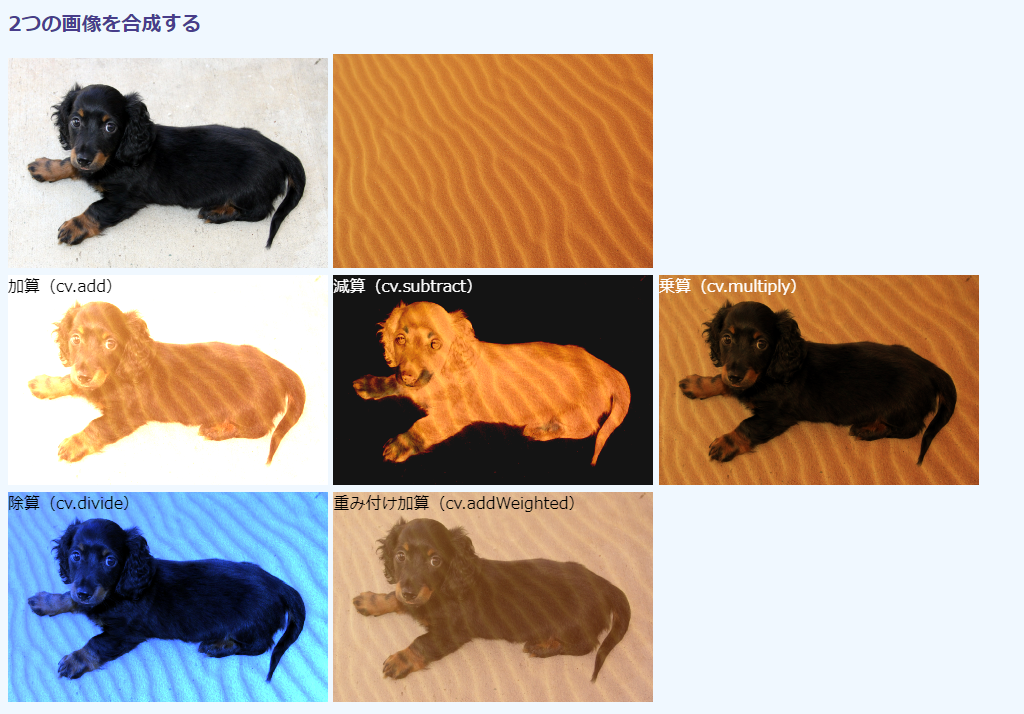
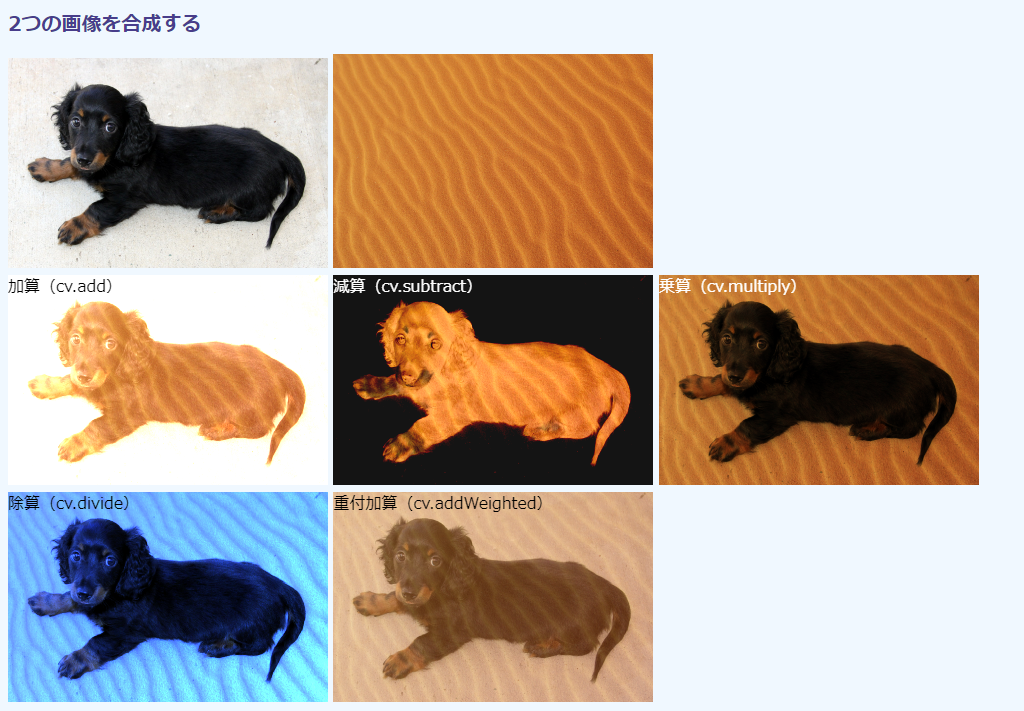
6.8 checked

diff --git a/Codes/img-compose.html b/Codes/img-compose.html
@@ -53,7 +53,7 @@
 
     cv.addWeighted(img1, 0.5, img2, 0.5, 0, result);
     cv.imshow('canvasTagWei', result);
-    new Overlay('divTagWei',  '重み付け加算（cv.addWeighted）', 0, 0, 16, 'black');
+    new Overlay('divTagWei',  '重付加算（cv.addWeighted）', 0, 0, 16, 'black');
 
     [img1, img2, result].forEach(m => m.delete());
   }

diff --git a/06-img.md b/06-img.md
@@ -2367,11 +2367,15 @@ cv.rectangle(                               // 戻り値なし
 
 #### 目的
 
-2枚の画像を加減乗除で合成します。四則演算によって画像がどう変化するかを確認するのが目的です。
+2枚の画像を加減乗除で合成します。四則演算によって画像がどう変化するかを確かめるのが目的です。
 
-技術的には、`cv.Mat`に収容された(x, y)座標とチャネル位置が対応する値どうしの演算です。加算なら、画像1のピクセル $P_1(r_1, g_1, b_1, a_1)$ と画像2のピクセル $P_2(r_2, g_2, b_2, a_2)$ を足せば、 $P'(r_1 + r_2, g_1 + g_2, , b_1 + b_2, a_1 +a_2)$ になります。加算あるいは乗算をすると、値は基本的に大きくなり、画面が明るくなります。結果がビット深度が表現できる最大値を超えたときは、最大値に飽和されます（`cv.CV_8U`なら255）。反対に、減算や除算では値は小さく、暗くなります。減算では、表現可能な最小値より小さくなったら、最小値に飽和されます（`cv.CV_8U`では0）。
+技術的には、`cv.Mat`に収容された(x, y)座標とチャネル位置が対応する値どうしの演算です。画像 $P_1$ と画像 $P_2$ の加算な次の式の通りで。
 
-`cv.Mat`に対する加減乗除の関数はそれぞれ`cv.add()`、`cv.subtract()`、`cv.multiply()`、`cv.divide()`です。
+$$P_1(r_1, g_1, b_1, a_1) + P_2(r_2, g_2, b_2, a_2) = P'(r_1 + r_2, g_1 + g_2, , b_1 + b_2, a_1 +a_2)$$
+
+加算あるいは乗算をすると、値は基本的に大きくなり、画面が明るくなります。結果がビット深度が表現できる最大値を超えたときは、最大値に飽和されます（`cv.CV_8U`なら255）。反対に、減算や除算では値は小さく、暗くなります。減算では、表現可能な最小値より小さくなったら、最小値に飽和されます（`cv.CV_8U`では0）。
+
+`cv.Mat`に対する加減乗除の関数はそれぞれ`cv.add()`、`cv.subtract()`、`cv.multiply()`、`cv.divide()`です。加減算には係数を加えた重み付け加算の`cv.addWeighted()`もあります。
 
 実行例を次の画面に示します。
 
@@ -2381,7 +2385,7 @@ cv.rectangle(                               // 戻り値なし
 
 2段目以降が合成結果です。画像左上に、用いた演算とその関数を示してあります（[2.4節](./02-ui.md#24-日本語文字を画像に重畳する "INTERNAL")の`Overlay`クラス使用）。
 
-加算は、2枚の画像を透明なシートに印画し、重ねたうえですかして見たような絵を生成します。透明シートと異なるのは、もともと明るいところ同士を重ねると値が飽和し、白く飛んでしまうところです。ここでは、もともと明るい左の背景がほとんどで飽和します。その代わり、ダックスフンド部分はもとが黒いので、そのテクスチャが風紋に置き換わります。このサンプルのように背景と前景がはっきりした画像なら、これにプレーンな一色の画像を加えることで、着色することができます。
+加算は、2枚の画像を透明なシートに印画し、重ねたうえですかして見たような絵を生成します。透明シートと異なるのは、もともと明るいところ同士を重ねると値が飽和し、白く飛んでしまうところです。ここでは、もともと明るい左の背景が飽和しています。その代わり、ダックスフンド部分はもとが黒いので、そのテクスチャが明るいほうの風紋に置き換わります。このサンプルのように背景と前景がはっきりした画像なら、これにプレーンな一色の画像を加えることで、着色することができます。
 
 引くという操作は画像を負にして加えるということなので、引く側がネガ状になります。この例では右の風紋から左のダックスフンドを引いているので、ダックスフンドがネガになります。背景がまっくろなのは、ダックスフンドの明るい背景が負になり、0に飽和しているからです。一方のテクスチャが他方に映るのは、加算と同じです。なお、この用例ではやや輝度を調整しています。
 
@@ -2389,7 +2393,7 @@ cv.rectangle(                               // 戻り値なし
 
 除算も効果としては乗算と同じようなものです。ただ、低いほうの値に集中しがちなので、一定の数を掛けるのが一般的です。ここでは100倍しています。ダックスフンド（背景白）を風紋（背景赤茶）で割っているので、白い背景から赤い成分がごそっと減ります。そのため、結果では背景が青っぽくなります。
 
-重み付け加算は加算に係数をかけることのできる計算です。つまり、 $P' = \alpha P_1 + \beta P_2$ です。輝度を極端に上げたり下げたりしないよう、係数の和は1に保つのが一般的です（ $\alpha + \beta = 1$ ）。
+重み付け加算は加算に係数をかけることのできる計算です。つまり、 $P' = \alpha P_1 + \beta P_2$ です。輝度を極端に上げたり下げたりしないよう、係数の和は1に保つのが一般的です（ $\alpha + \beta = 1$ ）。ここでは、どちらも0.5を取っています（つまり両者の平均を取っている）。
 
 #### コード
 
@@ -2452,7 +2456,7 @@ cv.rectangle(                               // 戻り値なし
  53
  54      cv.addWeighted(img1, 0.5, img2, 0.5, 0, result);
  55      cv.imshow('canvasTagWei', result);
- 56      new Overlay('divTagWei',  '重み付け加算（cv.addWeighted）', 0, 0, 16, 'black');
+ 56      new Overlay('divTagWei',  '重付加算（cv.addWeighted）', 0, 0, 16, 'black');
  57
  58      [img1, img2, result].forEach(m => m.delete());
  59    }
@@ -2466,7 +2470,7 @@ cv.rectangle(                               // 戻り値なし
  67  </html>
 ```
 
-四則演算をするには、両者の間でサイズが一致していなければなりません。ここでは、サイズが左側（`img1`）のものに右側（`img2`）を合わせます（34行目）。
+四則演算では、両者の間でサイズが一致していなければなりません。ここでは、左側（`img1`）のものに右側（`img2`）を合わせます（34行目）。
 
 ```javascript
  30      let img1 = cv.imread(imgElem1);
@@ -2476,7 +2480,7 @@ cv.rectangle(                               // 戻り値なし
  34      cv.resize(img2, img2, img1.size());
 ```
 
-データ型はRGBに揃えます（31、33行目）。元画像にもとからあるアルファチャネルが備わっているのでなければ、値はすべて255（完全不透過）です。加算では255に255を足し、乗算では255に255を掛けるので、飽和して255となり、効果はありません。255から255を引くと0になり、255を255で割ると1になり、全体がほぼ透明になって見えません。
+データ型はRGBに揃えます（31、33行目）。元画像に最初からアルファチャネルが備わっていれば別ですが、普通のRGB画像のアルファ値はすべて255（完全不透過）です。加算では255に255を足し、乗算では255に255を掛けるので、飽和して255となり、これらは問題ありません。しかし、減算と除算では255から255を引くと0になり、255を255で割ると1になり、透明になるので見えません。
 
 #### 加算－cv.add
 
@@ -2499,7 +2503,9 @@ cv.add(                                     // 戻り値なし
 );
 ```
 
-入力画像の第1引数`src1`と第2引数`src2`のサイズとチャネル数は一致していなければなりません。オプションの第4引数`mask`から、演算範囲をマスク画像から指定することができます。
+入力画像の第1引数`src1`と第2引数`src2`のサイズとチャネル数は一致していなければなりません。
+
+オプションの第4引数`mask`から、演算範囲をマスク画像から指定することができます。デフォルト値の`noArray()`は行列なしという意味で、そういう関数があるわけではありません。
 
 第5引数は出力のビット深度を指定するためのものです。`cv.add()`では足す数と足される数のビット深度（ビット数）は同じでなくてもよいので、たとえば16ビット符号ありと8ビット符号なしを足して、32ビット浮動小数点数で保存することもできます。ただ、できるというだけで、そういう妙なことをしなければならないのは、特殊な事情でしょう。普通は入力の2枚の画像はデータ型を揃え、出力もそれと同じになるよう、デフォルトの-1を指定します。
 
@@ -2527,7 +2533,7 @@ cv.subtract(                                // 戻り値なし
 
 入力画像の第1引数`src1`から第2引数`src2`を引きます（`src1 - src2`）。
 
-`cv.add()`と`cv.subtract()`には加減の結果をさらに定数倍、あるいは定数の加減をする引数がないので、補正は`cv.Mat.convertTo()`から自力で行ないます。ここでは1.2倍してから20を加えています。
+`cv.add()`と`cv.subtract()`には加減の結果をさらに定数倍、あるいは定数の加減をする引数がないので、補正は`cv.Mat.convertTo()`から自力で行ないます（[6.4節](#64-QRコードを読む "INTERNAL")参照）。ここでは1.2倍してから20を加えています。
 
 #### 乗算－cv.multiply
 

diff --git a/04-mat.md b/04-mat.md
@@ -1105,42 +1105,6 @@ cv.Scalar = cv.Scalar(                      // cv.Scalarを返す
  41      mat.delete();
 ```
 
-<!--- やらなくてよい
-#### 浮動小数点数画像を整数画像に戻す
-
-浮動小数点数で描かれた`cv.Mat()`はそのままでは表示できないので、整数に変換します。用いているデータ型は`cv.CV_32FC1`なので、変換先は`cv.CV_8UC1`にします。変換は`cv.Mat`の関数、`convertTo()`です（41行目）。
-
-```javascript
- 41      mat.convertTo(mat8, cv.CV_8UC1);
-```
-
-`convertTo()`はインスタンスメソッドなので、操作対象に作用させます（`mat.convertTo()`）。関数の書式を次に示します。
-
-FunctionDefinition cv.imshow() 第2引数の`cv.Mat`を第1引数の`<canvas>`に貼り付ける。
-```Javascript
-cv.Mat.convertTo(                           // 戻り値なし
-    cv.Mat mat,                             // 出力先のcv.Mat
-    number rtype,                           // データ型
-    number alpha=1,                         // 倍率
-    number beta=0                           // 加算値
-);
-```
-
-第1引数には変換後の`cv.Mat`を指定します。変数は指定前に定義されていなければならないので、あらかじめ`new cv.Mat()`で用意しておきます（40行目）。中身のサイズやデータ型は関数が自動的に調整するので、引数は指定する必要はありません。
-
-```javascript
- 40      let mat8 = new cv.Mat();
-```
-
-第2引数には変換先のデータ型を指定します。この型変換関数はチャネル数が入力と同じでなければなりません。この場合、入力は1チャネルなので、出力側も1チャネルを指定します。ビット深度指定（`cv.CV_8U`）でもかまいません。-1を指定すると、型変換はしません。
-
-第3引数と第4引数はピクセル値の定数倍と増減も用います。第3引数が指定されるとピクセル値にその値が掛けられるので、1より上の値なら輝度が増します。1未満なら暗くなります。第4引数も同様で、その値がピクセル値に加えられるので、正の値なら明るくなり、負なら暗くなります。オプション引数なので、指定がなければ輝度調整はありません。
-
-第3引数あるいは第4引数を指定すると、ピクセル値がデータ型の規定する最大値よりも大きく、または小さくなることもあります。その場合は強制的に最大値、または最小値に計算結果が抑えられます。これを飽和処理といいます。
-
-ちなみに、OpenCV.jsの`cv.Mat`には定数倍あるいは定数加算を計算する方法がありません。そのような演算が必要なときは、`rtype`に-1を指定して、これら引数を指定することで四則演算の代用にできます。
---->
-
 
 ### 4.6 お絵描きツールを作る
 
